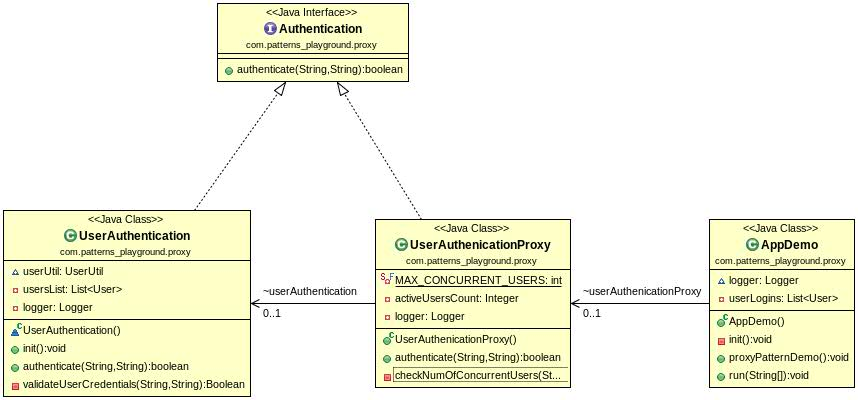
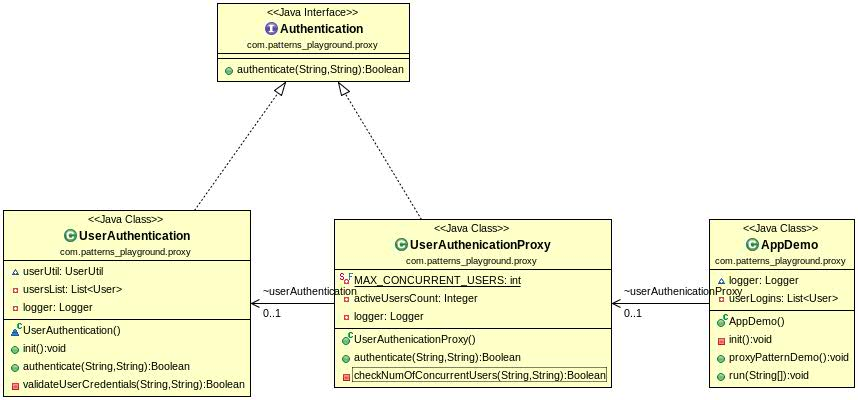
changed primate boolean types to Boolean wrapper class objects

diff --git a/src/main/java/com/patterns_playground/proxy/UserAuthenicationProxy.java b/src/main/java/com/patterns_playground/proxy/UserAuthenicationProxy.java
@@ -17,7 +17,7 @@ public class UserAuthenicationProxy implements Authentication {
 	private Logger logger = LoggerFactory.getLogger(UserAuthenicationProxy.class);
 
 	@Override
-	public boolean authenticate(String username, String password) {
+	public Boolean authenticate(String username, String password) {
 		logger.info("authenticate() called.");
 		boolean isAuthenticated = false;
 		try {
@@ -28,7 +28,7 @@ public class UserAuthenicationProxy implements Authentication {
 		return isAuthenticated;
 	}
 
-	private boolean checkNumOfConcurrentUsers(String username, String password) {
+	private Boolean checkNumOfConcurrentUsers(String username, String password) {
 		logger.info("validateLogin() activeUsersCount count : {}", activeUsersCount);
 		if (++activeUsersCount <= MAX_CONCURRENT_USERS) {			
 			return userAuthentication.authenticate(username, password);

diff --git a/src/main/java/com/patterns_playground/proxy/UserAuthentication.java b/src/main/java/com/patterns_playground/proxy/UserAuthentication.java
@@ -25,7 +25,7 @@ class UserAuthentication implements Authentication {
 	}
 
 	@Override
-	public boolean authenticate(String username, String password) {
+	public Boolean authenticate(String username, String password) {
 		logger.info("authenticate() called - attempting to login");
 		boolean isAuthenticated = false;
 		try {

diff --git a/src/main/java/com/patterns_playground/proxy/Authentication.java b/src/main/java/com/patterns_playground/proxy/Authentication.java
@@ -1,5 +1,5 @@
 package com.patterns_playground.proxy;
 
 public interface Authentication {
-    public boolean authenticate(String username, String password) throws Exception;
+    public Boolean authenticate(String username, String password) throws Exception;
 }
